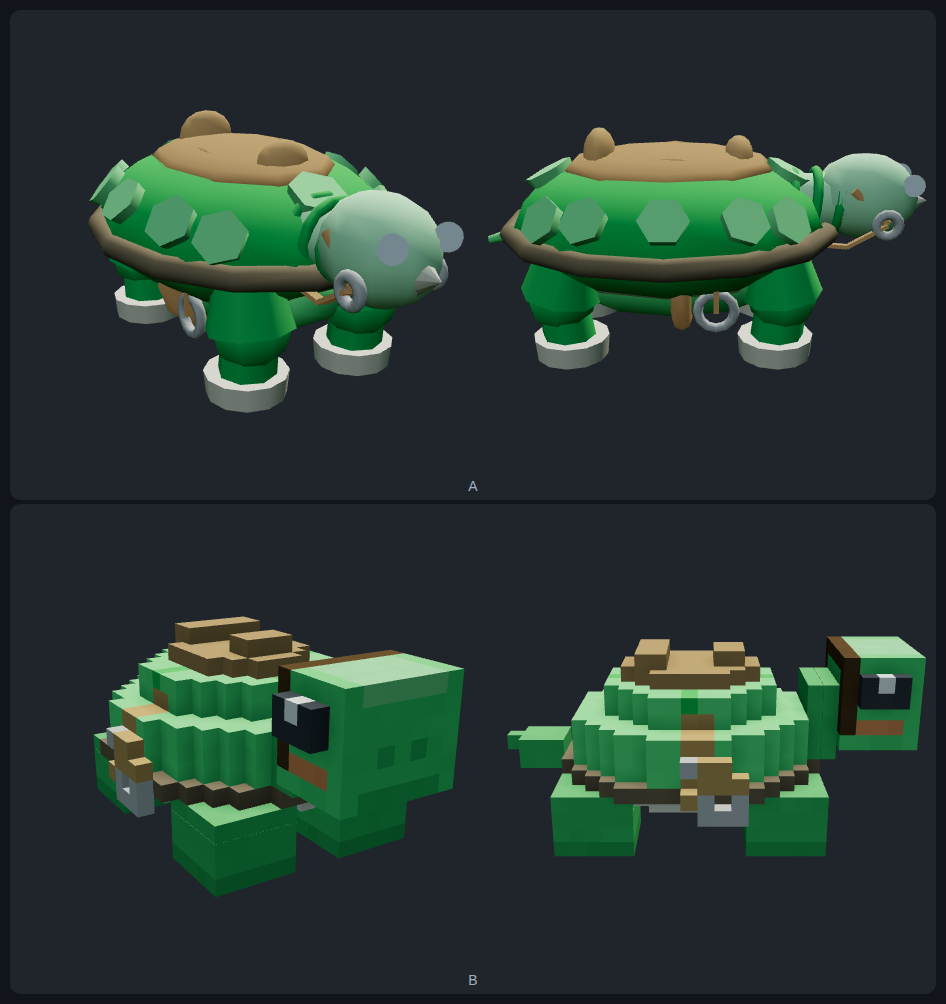
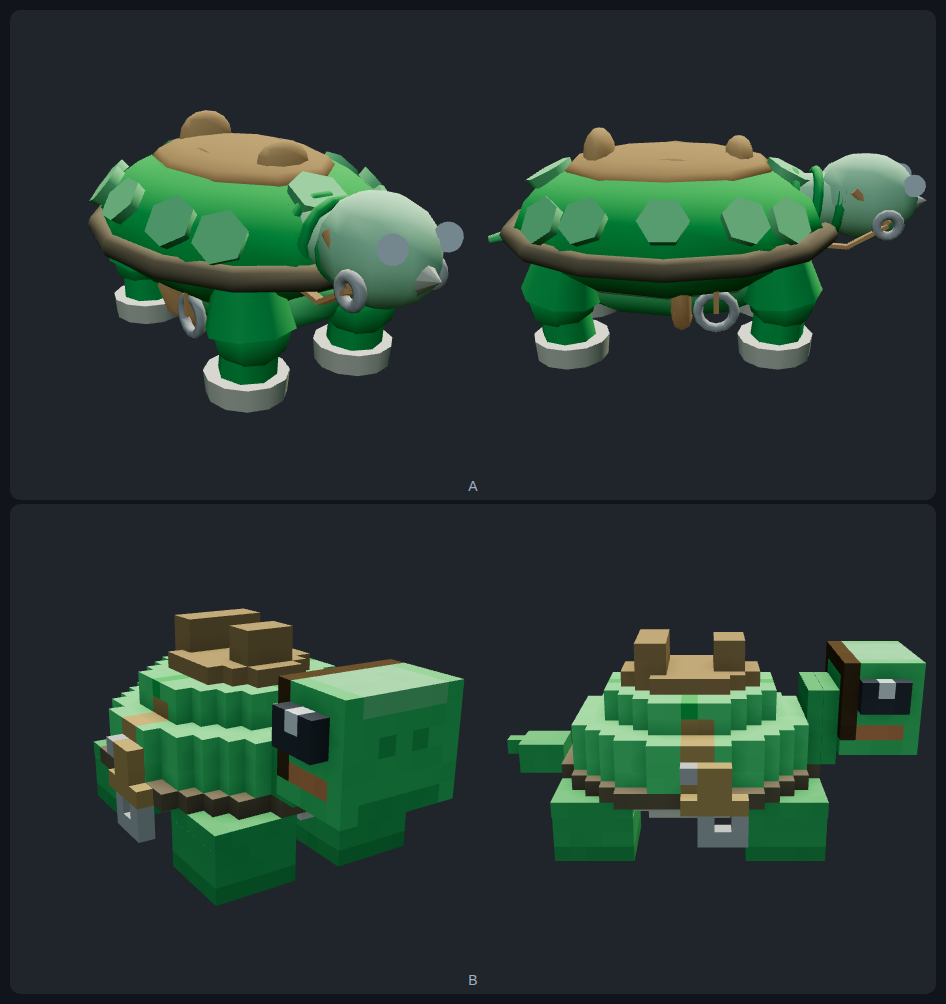
탈것 큐브 시험판 9차 채점 교집합 반영 — 앞턱·뒷턱 높이 2칸으로 안장이 3/4 실루엣을 뚫게(2인 공통 '하나만'; 길이 지배 bbox 라 프레이밍 공짜), 등자 y3 중심(림 밑선에 드리워 '박힌 돌'→'걸린 등자'), 콧구멍 y9(돼지코 해소), 다리 메시 0.996 축소로 힙캡 코플레이너 z-fighting 점선 제거 (mount-species-recognizable)

diff --git a/web/js/scene3d.js b/web/js/scene3d.js
@@ -14826,8 +14826,15 @@ const Scene3D = {
             //  ⚠ 깊이는 2칸(안쪽으로) — 8차 채점: *"1복셀 두께 기둥은 게임 거리에서 계단 노이즈와
             //     구분이 안 되고 셰이딩이 튄다."* 세로 승격은 금지 방향이라 **안쪽 깊이**로 살을
             //     붙인다(방석 위라 밖으로 늘면 허공에 뜬다).
-            V.at(V.slab(3, 1, 2, SADDLE), 0, o.seatY + 1, cz - 1),
-            V.at(V.slab(5, 1, 2, SADDLE), 0, o.seatY + 1, -cz));
+            // 🚨 **높이 2칸 — 9차 채점 2인의 '하나만 고친다면'이 둘 다 이것이다.** *"안장이 낮고
+            //    납작해 셸 실루엣에 흡수된다 — 게임에서 제일 많이 보일 3/4 앵글에서 '탈것'이라는
+            //    정보가 사라지는 건 기능 결함"* · *"캔틀·포멜을 2~3복셀 높여 실루엣만으로 '탈 수
+            //    있는 놈'이 읽히게."* 옛 '의자 등받이' 트랩(1판)은 **전폭 5칸 막대**를 두 층 세운
+            //    것이고, 여기는 방석보다 좁은 턱이라 다르다. ⚠ bbox 총높이가 13칸이 되지만
+            //    프레이밍은 **길이(27칸)가 지배**하므로 공짜다 — 폭·깊이를 늘릴 때만 프레이밍
+            //    함정(⑯)을 다시 볼 것.
+            V.at(V.slab(3, 2, 2, SADDLE), 0, o.seatY + 1, cz - 1),
+            V.at(V.slab(5, 2, 2, SADDLE), 0, o.seatY + 1, -cz));
         // 뱃대끈(girth) — 몸통을 한 바퀴 감는 링. **'탈것'이라는 정보의 절반은 이 띠가 진다**:
         // 안장만 있으면 '등에 얹은 상자'이고, 몸을 감는 띠가 보여야 '채운 마구'로 읽힌다.
         // 대비색(진홍)으로 두는 건 안장깔개와 같은 이유 — 등급색 파생이면 몸 위에서 대비가 0이다.
@@ -14990,7 +14997,15 @@ const Scene3D = {
                     v => v.y === 0 ? H(-0.10, -0.24) : undefined),
                 //  발톱 세 칸 — 발 앞면(바깥쪽)에서 한 칸 내민다. 돌출이라 실루엣에 걸린다.
                 ...[-1, 0, 1].map(dx => ({ x: sx * 4 + dx, y: 0, z: sz * 6 + sz * 3, c: 0xe8e2d0 })));
-            g.userData.legs.push(part(leg, sx * 4, CY.legTop, sz * 6));   // 피벗 = 다리 윗끝(고관절)
+            const legP = part(leg, sx * 4, CY.legTop, sz * 6);   // 피벗 = 다리 윗끝(고관절)
+            // ⚠ **0.996 은 z-fighting 지우개다 — 지우지 말 것.** 다리 윗면(y2 상면)과 힙 캡
+            //    (셸 파츠, y3 하면)은 **다른 메시의 코플레이너 면**이라 8·9차 채점에서 연속으로
+            //    *"앞다리 윗면에 흰 점선 얼룩(면 겹침) — 인게임 조명에서 반짝일 결함"* 으로 잡혔다.
+            //    같은 파츠 안이면 Voxel.faces 가 맞닿은 면을 걷어내지만 파츠 경계는 못 걷는다 —
+            //    캡을 다리 파츠로 옮기면 bbox 부피 겹침으로 probe-voxel-pilot-fit 이 빨개진다.
+            //    피벗 기준 0.4% 축소는 화면에서 안 보이고(0.0008 월드) 코플레이너만 깬다.
+            legP.children[0].scale.setScalar(0.996);
+            g.userData.legs.push(legP);
         }
         // ⑵ 등딱지 + 배딱지 — 한 파츠(몸통).
         // 🚨 **2판의 6층 등고선을 3장의 큰 갑판으로 갈아엎었다 — 이게 이번 판의 1순위다.**
@@ -15123,7 +15138,9 @@ const Scene3D = {
             if (v.z === 10 && (v.y === 11 || (Math.abs(v.x) === 3 && v.y >= 7))) return LEATHER;
             if (Math.abs(v.x) === 3 && v.y === 7 && v.z >= 10 && v.z <= 13) return CHEEK;  // 뺨 줄무늬
             if (v.z === 14 && v.y === 6 && Math.abs(v.x) <= 2) return SKIN_D;   // 입선 한 줄
-            if (v.z === 14 && v.y === 8 && Math.abs(v.x) === 1) return SKIN_D;  // 콧구멍 두 칸
+            //  ⚠ 콧구멍은 y9(눈높이 바로 밑) — y8 에 두면 *"위치가 낮고 간격이 넓어 돼지코"*
+            //     (9차 채점 2인 공통). 거북 콧구멍은 부리 끝 위쪽이다.
+            if (v.z === 14 && v.y === 9 && Math.abs(v.x) === 1) return SKIN_D;  // 콧구멍 두 칸
             // 면 분할 — 정수리 한 줄만 밝게. 2판은 턱 줄까지 어둡게 갈랐는데, 머리가 커진 3판에서는
             // 가로줄이 둘이면 **머리가 층진 상자**로 보인다(등딱지에서 층을 줄인 것과 같은 이유).
             if (v.y === 11 && v.z >= 10 && Math.abs(v.x) < 3) return SKIN_L;
@@ -15207,7 +15224,11 @@ const Scene3D = {
             //    위치)으로 올려 몸에 접합 — 마구가 몸에 입혀진 순간 8점대"*(B). y4 중심이면 고리
             //    (y3~5)가 테두리(y4)·벽(y5~) 옆에 면으로 붙어 '몸에 건 등자'가 되고, 실제 탑승
             //    발 높이와도 맞는다.
-            stirrupX: 8, stirrupY: 4, strapTopY: 6,   // 끈은 뱃대끈(y6)에서 곧게 내린다 — 사선 금지
+            //    ⚠ 9차가 진자를 한 칸 되돌렸다 — y4 중심은 고리(y3~5)가 테두리(y4)·벽과 **같은
+            //    세로 대역**이라 *"셸 림에 박힌 회색 돌/이물질"* 로 읽혔다(2인 공통). 매달린 것도
+            //    박힌 것도 아닌 답은 **테두리 밑선에 걸쳐 한 칸 드리우는 것**: y3 중심(고리 y2~4)
+            //    이면 윗칸이 테두리 옆에 물리고 아랫칸이 림 밑으로 나와 '걸어 둔 등자'가 된다.
+            stirrupX: 8, stirrupY: 3, strapTopY: 6,   // 끈은 뱃대끈(y6)에서 곧게 내린다 — 사선 금지
             //  🚨 **긴 고삐는 폐기했다(캡처로 잡았다).** 볼에서 안장 앞턱까지 y11 로 넘겼더니
             //     좌우 두 줄이 몸 위를 활처럼 건너 **'짐칸 롤바'** 가 됐다 — 탈것이 아니라 수레로
             //     읽힌다. 원인은 굵기가 아니라 **길이와 높이**다: 안 탄 탈것의 고삐는 잡아 주는
